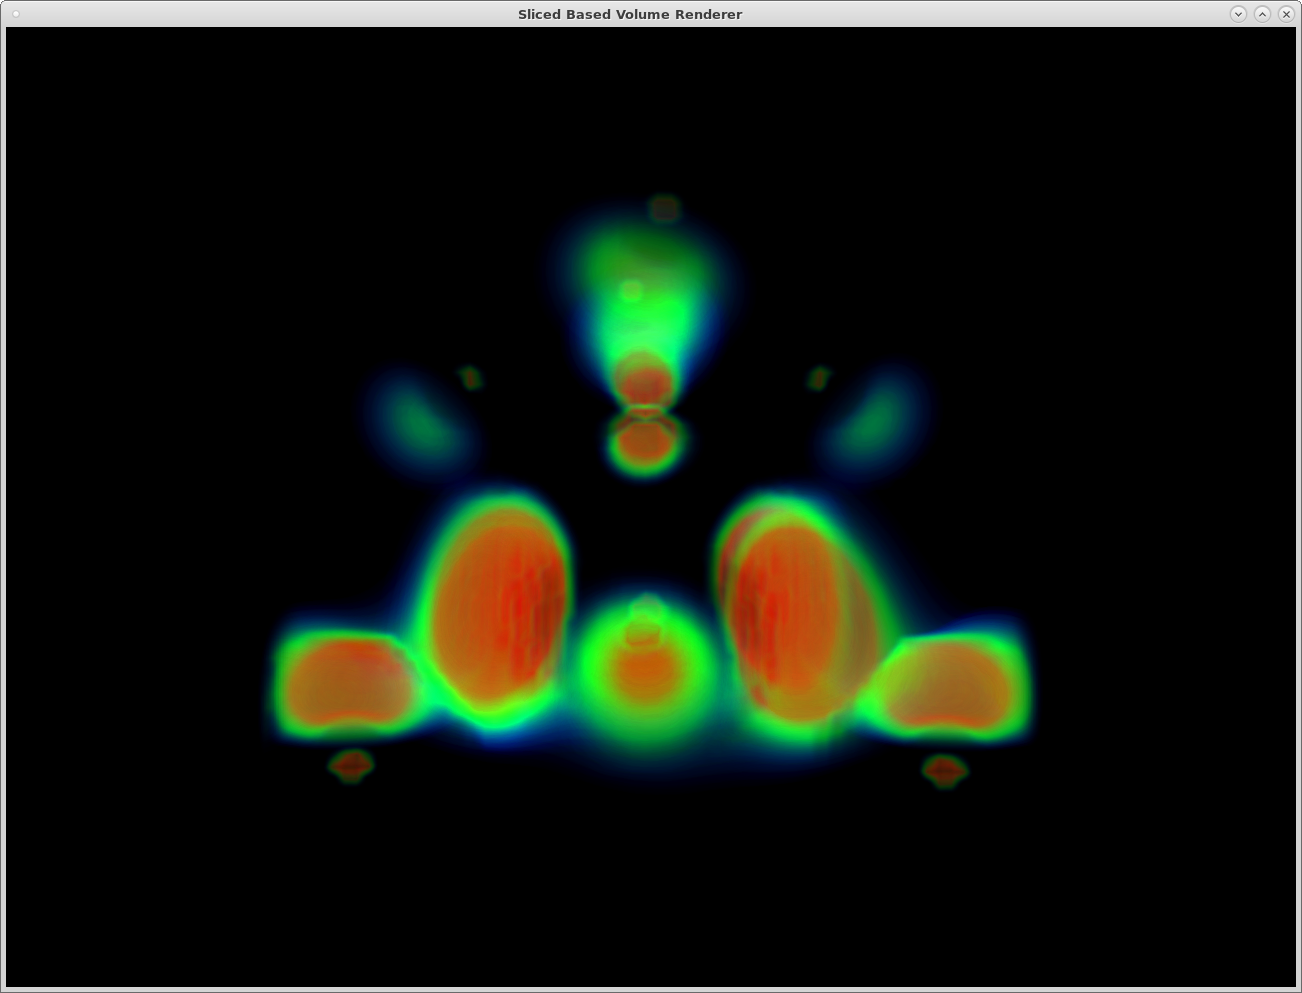
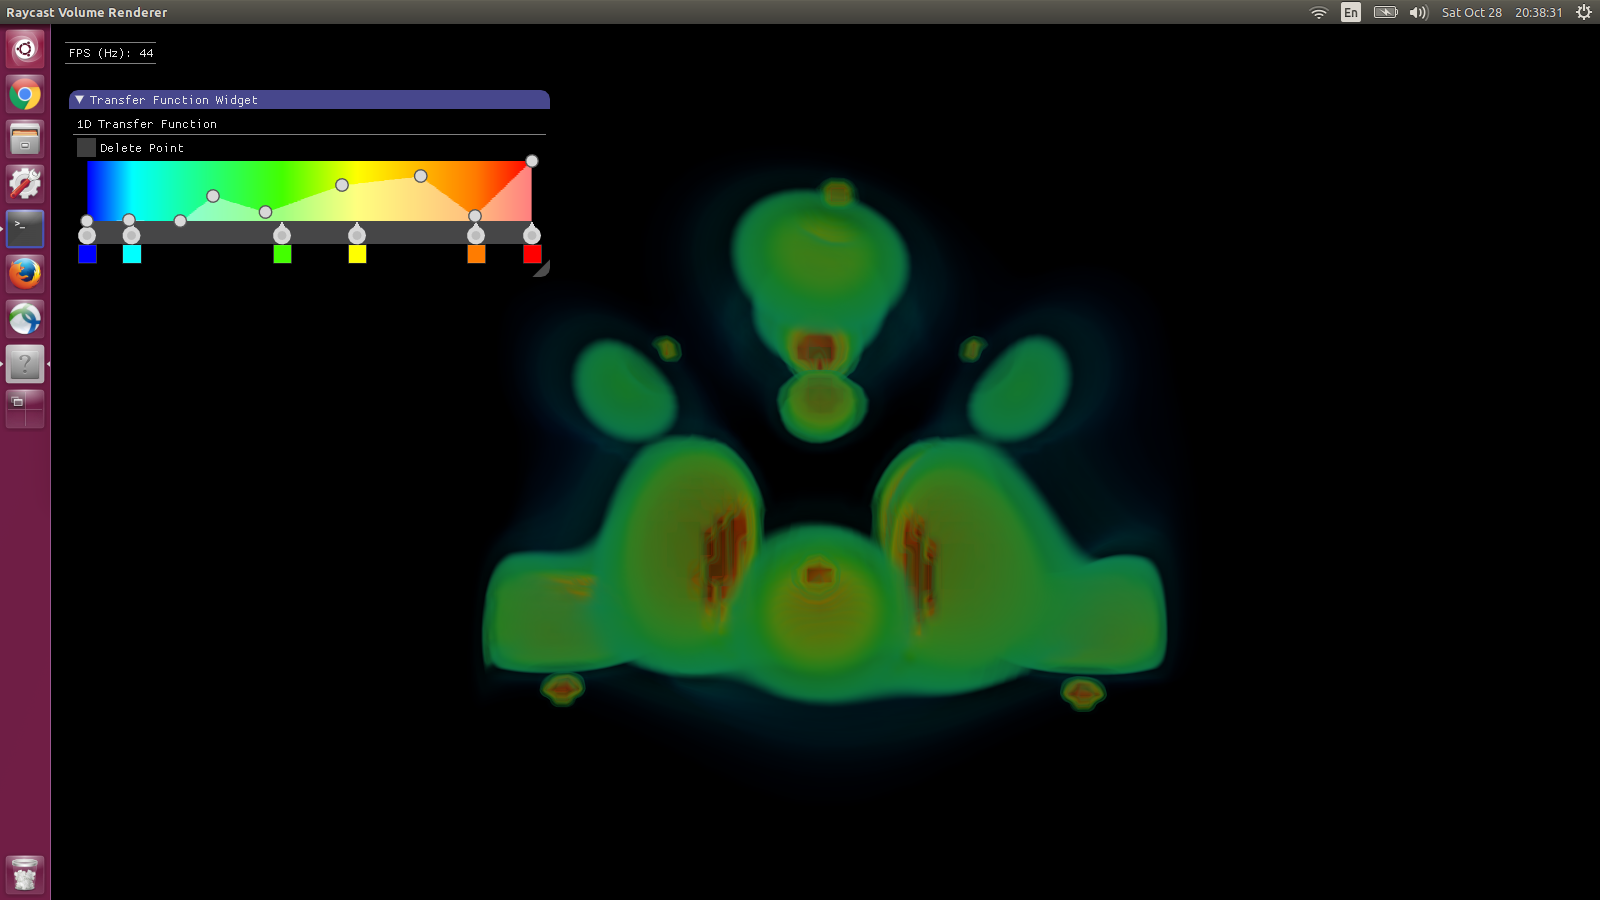
edit screenshots

Changed region(s): [[0.1843, 0.1867, 0.7988, 0.84], [0.0, 0.0, 1.0, 1.0]]

diff --git a/README.md b/README.md
@@ -8,3 +8,7 @@ This course project page for 2017 **History of Volume Rendering** in University 
 ![alt text](projects/slice/assets/magnetic_reconnection.png "Magnetic Reconnection")
 ![alt text](projects/slice/assets/marmoset_neurons.png "Marmoset Neurons")
 ![alt text](projects/slice/assets/neghip.png "Neghip")
+
+### Part 2: Raycasting Volume Renderer ###
+
+![alt text](projects/raycast/assets/neghip.png "Neghip")
